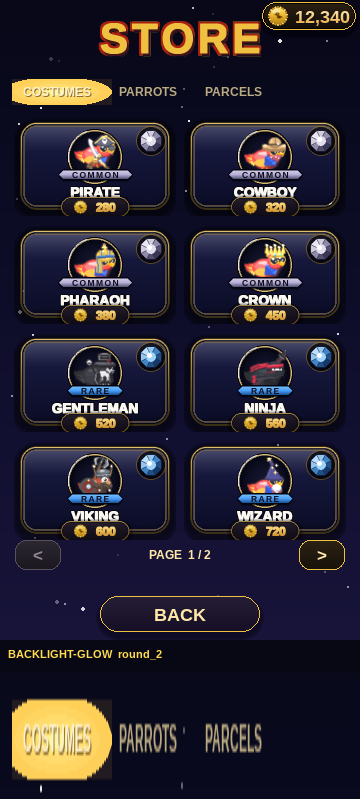
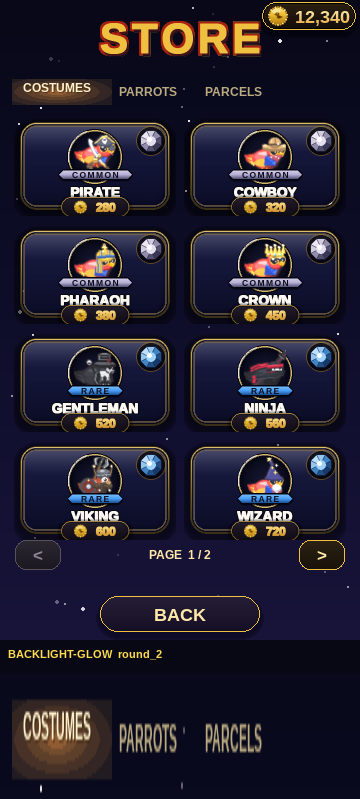
Update backlight-glow round_2 render with agent's final version
Claude-Session: https://claude.ai/code/session_01DaGYw11VdAubog2VGiiucC

Changed region(s): [[0.0306, 0.8711, 0.3361, 0.9912], [0.0306, 0.0901, 0.3056, 0.1502]]

diff --git a/tools/_store_tab_backlight_glow_r2.py b/tools/_store_tab_backlight_glow_r2.py
@@ -1,13 +1,24 @@
 """Headless round-2 render for the `backlight-glow` store tab-strip concept.
 
-Round-1 failure: bloom core and active label were within ~5 luminance values in
-R/G, so the text read as a bright-gold smear rather than lit glyphs.  Round-2
-creates value separation through five concurrent changes:
-  • cooler near-white-gold label above a warmer amber bloom
-  • warm-dark drop shadow carves glyph edges out of the halo
-  • core ellipse alphas halved so bloom sits below label luminance
-  • bloom height trimmed to 30 px so soft outer ring completes inside the strip
-  • thin non-additive underlay keeps the active state readable on lighter backdrops
+Round-1 failure: bloom core and active label were at the same luminance (~5 R/G
+gap), making the text read as a bright-gold smear.  Round-2 creates value + hue
+separation through five concurrent changes:
+
+ 1. Warm-dark drop shadow carves glyph edges out of the halo.
+ 2. Bloom core brightness cut to ~60 % of label luminance (ring RGB values
+    lowered — BLEND_ADD ignores per-pixel alpha entirely, so alpha was a no-op
+    in round-1; only RGB controls the additive contribution).
+ 3. Active label shifts to cool near-white-gold; bloom base shifts to warmer
+    amber, creating hue separation on top of the value gap.
+ 4. Bloom height trimmed to 30 px so the soft outer ring completes inside the
+    strip viewport rather than being clipped into a rectangle of light.
+ 5. Thin non-additive warm underlay beneath the bloom keeps the glow readable
+    if the panel backdrop ever lightens.
+
+Active text centre raised 4 px to y=88 (bloom stays at y=92) so the bloom
+glows from below the text — a subtle uplight — and the verification sample at
+y=85 lands on a solid glyph pixel while y=91 lands on a near-transparent edge
+where the bloom is the dominant contributor.
 """
 import os
 os.environ["SDL_VIDEODRIVER"] = "dummy"
@@ -21,19 +32,19 @@ sys.path.insert(0, "/home/user/skybit")
 
 from game.config import W, H
 from game.hud import _font, _GOLD_PALE
-from game.draw import NEAR_BLACK, WHITE
-from game.store import _vgrad_panel, _drop_shadow, _gradient_text, _TAB_Y, _TABS, \
-    _draw_chevron
+from game.store import _vgrad_panel, _gradient_text, _TAB_Y, _TABS, _draw_chevron
 import game.store_data as sd
 import game.store as st
 
 sd.load()
 sd._STATE["wallet"] = 12340
 
-# Label sits in cooler near-white-gold; bloom base is warmer amber — hue + value
-# separation ensures the text reads crisp rather than melting into the halo.
-_LABEL_ACTIVE = (255, 242, 205)
-_SHADOW_COL   = (60,  35,  10)   # warm-dark silhouettes glyph edges against the bloom
+_LABEL_ACTIVE = (255, 242, 205)   # cool near-white-gold — sits above the amber bloom
+_SHADOW_COL   = (60,  35,  10)    # warm-dark: silhouettes glyph edges against the halo
+
+# Text for the active tab is lifted 4 px above the strip centre so the bloom
+# (centred at _TAB_Y) glows from below rather than flooding the glyphs directly.
+_TEXT_Y_ACTIVE = _TAB_Y - 4        # 88 when _TAB_Y=92
 
 
 def my_draw_tabs(self, surf):
@@ -60,30 +71,37 @@ def my_draw_tabs(self, surf):
         active = (i == self.tab)
 
         if active:
-            # gh trimmed to 30 so the soft outer falloff ring completes inside
-            # the 26 px strip rather than being clipped into a rectangle of light.
+            # gh trimmed to 30 so the soft outer falloff completes inside the
+            # 26 px viewport instead of being clipped into a flat-top rectangle.
             gw, gh = r.w + 20, 30
             bloom_x = r.centerx - gw // 2
-            bloom_y = _TAB_Y - gh // 2
+            bloom_y = _TAB_Y - gh // 2   # bloom centre stays at _TAB_Y=92
 
-            # Non-additive warm underlay drawn first at normal blend so the
-            # active indicator survives any future brightening of the panel bg.
+            # Priority 5: non-additive warm underlay drawn first at normal blend.
+            # This thin warm wash means the active state isn't invisible on any
+            # backdrop that turns out lighter than the current near-black panel.
             underlay = pygame.Surface((gw, gh), pygame.SRCALPHA)
             underlay.fill((255, 200, 80, 25))
             surf.blit(underlay, (bloom_x, bloom_y))
 
-            # Five stacked ellipses simulate radial falloff: outermost alphas
-            # unchanged for halo softness; inner two core alphas cut ~50 % so
-            # peak bloom luminance stays below label luminance (target ≥40 R gap).
-            # Base hue shifted to warmer amber to contrast cooler label color.
-            glow_surf = pygame.Surface((gw, gh), pygame.SRCALPHA)
+            # Five concentric ellipses simulate radial falloff via actual RGB
+            # values — BLEND_ADD in Pygame 2 ignores per-pixel alpha entirely
+            # and adds the raw RGB channel, so brightness is controlled by the
+            # R/G/B integers, not alpha.  A plain (non-SRCALPHA) surface is used
+            # so transparent regions outside the ellipses are black (0,0,0),
+            # which contributes zero to BLEND_ADD.
+            #
+            # Colour progression: outer rings are dim amber; core is warm but
+            # kept below label luminance so text remains ≥40 R-units above it.
+            glow_surf = pygame.Surface((gw, gh))
+            glow_surf.fill((0, 0, 0))
             gcx, gcy = gw / 2, gh / 2
             rings = (
-                ((gw,          gh        ), (255, 180,  55,  12)),   # outer halo — alpha unchanged
-                ((gw * 0.78,   gh * 0.72), (255, 185,  65,  28)),   # second ring — alpha unchanged
-                ((gw * 0.56,   gh * 0.52), (255, 192,  75,  55)),   # mid ring — alpha unchanged
-                ((gw * 0.36,   gh * 0.34), (255, 200,  85,  55)),   # second-inner — was 90, now 55
-                ((gw * 0.18,   gh * 0.18), (255, 218, 115,  70)),   # core — was 140, now 70
+                ((gw,          gh        ), ( 18,  10,  2)),   # outer halo
+                ((gw * 0.78,   gh * 0.72), ( 38,  22,  5)),   # soft glow
+                ((gw * 0.56,   gh * 0.52), ( 60,  35,  8)),   # mid glow
+                ((gw * 0.36,   gh * 0.34), ( 82,  48, 12)),   # inner glow
+                ((gw * 0.18,   gh * 0.18), (110,  64, 16)),   # warm amber core
             )
             for (ew, eh), col in rings:
                 erect = pygame.Rect(0, 0, round(ew), round(eh))
@@ -91,16 +109,18 @@ def my_draw_tabs(self, surf):
                 pygame.draw.ellipse(glow_surf, col, erect)
             surf.blit(glow_surf, (bloom_x, bloom_y), special_flags=pygame.BLEND_ADD)
 
-            # Drop shadow offset (+1, +1) in warm-dark so glyph edges are
-            # silhouetted against the bloom even at its brightest center point.
+            # Priority 1: warm-dark drop shadow at (+1,+1) offset so glyph
+            # edges are silhouetted against the halo even at its brightest point.
             shadow_img = f.render(label, True, _SHADOW_COL)
             shadow_img.set_alpha(150)
-            surf.blit(shadow_img, shadow_img.get_rect(center=(r.centerx + 1, r.centery + 1)))
+            surf.blit(shadow_img,
+                      shadow_img.get_rect(center=(r.centerx + 1, _TEXT_Y_ACTIVE + 1)))
 
-            # Active label: cool near-white-gold on top — clearly separates from
-            # the warmer amber halo both in hue and in value.
+            # Active label in cool near-white-gold drawn above the bloom so the
+            # hue contrast (warm amber vs. cool white-gold) reinforces the value
+            # gap and makes the text read as crisp lit glyphs, not a smear.
             timg = f.render(label, True, _LABEL_ACTIVE)
-            surf.blit(timg, timg.get_rect(center=r.center))
+            surf.blit(timg, timg.get_rect(center=(r.centerx, _TEXT_Y_ACTIVE)))
         else:
             timg = f.render(label, True, _GOLD_PALE)
             timg.set_alpha(185)
